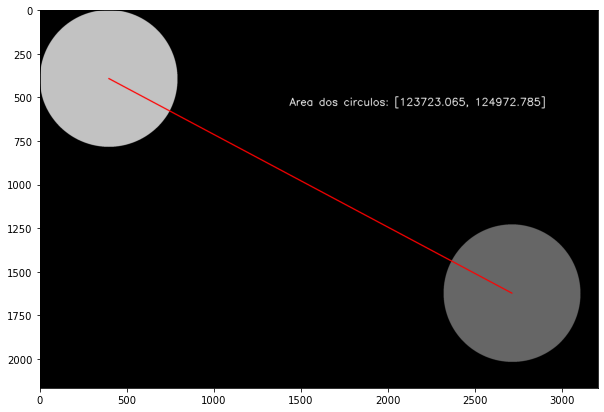
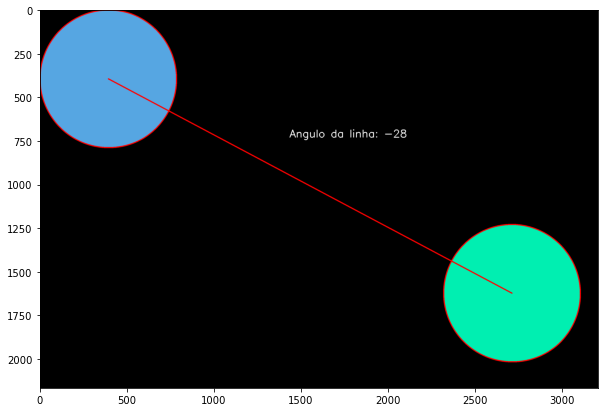
Otimização dos códigos

diff --git a/nac_r4.py b/nac_r4.py
@@ -3,23 +3,41 @@
 # Essa rubrica não pode ser feita no jupyter notebook ou google Colab. Deve ser um programa python .py. 
 
 from pynput.keyboard import Key, Controller
+import pynput
 import cv2 as cv
 import numpy as np
+import math
+import time
+
 
 def key_press(key):
+    keys = [
+    pynput.keyboard.KeyCode.from_char('w'),  # A
+    pynput.keyboard.KeyCode.from_char('d'), # D
+    pynput.keyboard.KeyCode.from_char('s'),  # A
+    pynput.keyboard.KeyCode.from_char('a'),  # A
+]
+
     keyboard = Controller()
     if key == 'up':
-        keyboard.press(Key.up)
-    elif key == 'down':
-        keyboard.press(Key.down)
-    elif key == 'left':
-        keyboard.press(Key.left)
+        time.sleep(0.15)
+        keyboard.press(keys[0])
+        time.sleep(0.5)
+        keyboard.release(keys[0])
+    elif key == 'right':
+        time.sleep(0.1)
+        keyboard.press(keys[1])
+        time.sleep(0.5)
+        keyboard.release(keys[1])
     else:
-        keyboard.press(Key.right)
+        time.sleep(0.1)
+        keyboard.press(keys[3])
+        time.sleep(0.5)
+        keyboard.release(keys[3])
 
-def contornos(mask, frame):
-    gray = frame.copy()
-    gray = cv.cvtColor(gray, cv.COLOR_BGR2GRAY)
+def encontrar_contornos(mask, frame):
+    # gray = frame.copy()
+    # gray = cv.cvtColor(gray, cv.COLOR_BGR2GRAY)
     contornos, _ = cv.findContours(mask, cv.RETR_TREE, cv.CHAIN_APPROX_SIMPLE)
 
     centres = []
@@ -35,21 +53,36 @@ def contornos(mask, frame):
         cy1=centres[0][1]
         cy2=centres[1][1]
 
-        cv.drawContours(contornos_img, contornos, -1, [255, 255, 0], 5)
+        # cv.drawContours(contornos_img, contornos, -1, [255, 255, 0], 5)
+        # cv.line(contornos_img,(cx1,cy1),(cx2, cy2),(100,255,255),2)
 
-        (h, w) = frame.shape[:2]
-        if(cy1 < h/2 and cy2 < h/2):
+        m1 = (cy1 - cy2)/(cx1 - cx2)
+        m2 = (cy2 - cy2)/(cx1 - cx2)
+        angulo = math.atan((m2-m1)/(1-(m2*m1)))
+        angulo_graus = round(math.degrees(angulo))
+
+        if(angulo_graus > 35):
             key_press('up')
-        if(cy1 > h/2 and cy2 > h/2):
-            key_press('down')
-        if(cx1 < w/2 and cx2 < w/2):
-            key_press('left')
-        if(cx1 > h/2 and cx2 > h/2):
+        elif(angulo_graus > 0):
             key_press('right')
+        else:
+            key_press('left')
+        
+        # font = cv.FONT_HERSHEY_SIMPLEX
+        # text = f'Angulo da reta: {angulo_graus}'
+        # textsize = cv.getTextSize(text, font, 1, 1)[0]
+
+        # textX = int((contornos_img.shape[1] - textsize[0]) / 2)
+        # textY = int((contornos_img.shape[0] + textsize[1]) / 2)
+        # # cv.putText(contornos_img, text, (textX, textY), font, 1, (100, 255, 255), 1)
+
+        
+        
 
         return contornos_img
     
     return frame
+
 
 cv.namedWindow("preview")
 vc = cv.VideoCapture(0)
@@ -63,10 +96,9 @@ else:
 while rval:
     frame = cv.flip(frame, 1)
     cframe = frame.copy()
-    cframe = cv.medianBlur(cframe, 11)
     cframe = cv.cvtColor(cframe,cv.COLOR_BGR2GRAY)
 
-    circles = cv.HoughCircles(cframe,cv.HOUGH_GRADIENT,dp=4,minDist=200,param1=300,param2=150,minRadius=60,maxRadius=120)
+    circles = cv.HoughCircles(cframe,cv.HOUGH_GRADIENT,dp=4,minDist=200,param1=300,param2=150,minRadius=80,maxRadius=120)
 
     mask = cframe.copy()
     mask = np.zeros(cframe.shape[:2],dtype="uint8")
@@ -75,13 +107,9 @@ while rval:
         raio = []
         circles = np.uint16(np.around(circles))
         for i in circles[0,:2]:
-            cv.circle(mask,(i[0],i[1]),i[2],(255,255,255),-1)
-            cv.circle(frame,(i[0],i[1]),i[2],(255,255,0),5)
-        frame = contornos(mask, frame).copy()
-    
-    (h, w) = frame.shape[:2]
-    cv.line(frame, (0, h//2), (w, h//2), (0, 255, 0), 2)
-    cv.line(frame, (w//2, 0), (w//2, h), (0, 255, 0), 2)
+            cv.circle(mask,(i[0],i[1]),i[2],(255,255,0),-1)
+            # cv.circle(frame,(i[0],i[1]),i[2],(255,255,0),2)
+        frame = encontrar_contornos(mask, frame).copy()
 
     cv.imshow("preview", frame)
     
@@ -93,5 +121,3 @@ while rval:
 
 vc.release()
 cv.destroyWindow("preview")
-
-

diff --git a/nac_r3.py b/nac_r3.py
@@ -80,4 +80,3 @@ while rval:
 
 vc.release()
 cv.destroyWindow("preview")
-

diff --git a/README.md b/README.md
@@ -17,16 +17,8 @@ Nac 01, tem como objetivo validar conhecimento na linguagem python nas bibliotec
 
 Adicione uma ou mais fotos do projeto, pode ser uma imagem da arquitetura, do circuito eletrônico do Flow desenvolvido. 
 
-### Exercício 1
-<img src="/exercicio1.png" width="550">
+<img src="/imagem.jpg" width="550">
 
-<img src="/exercicio1-parte2.png" width="550">
-
-### Exercício 2
-<img src="/exercicio2.png" width="550">
-
-### Exercício 3
-<img src="/exercicio3.png" width="550">
 
 ## Como usar 
 
